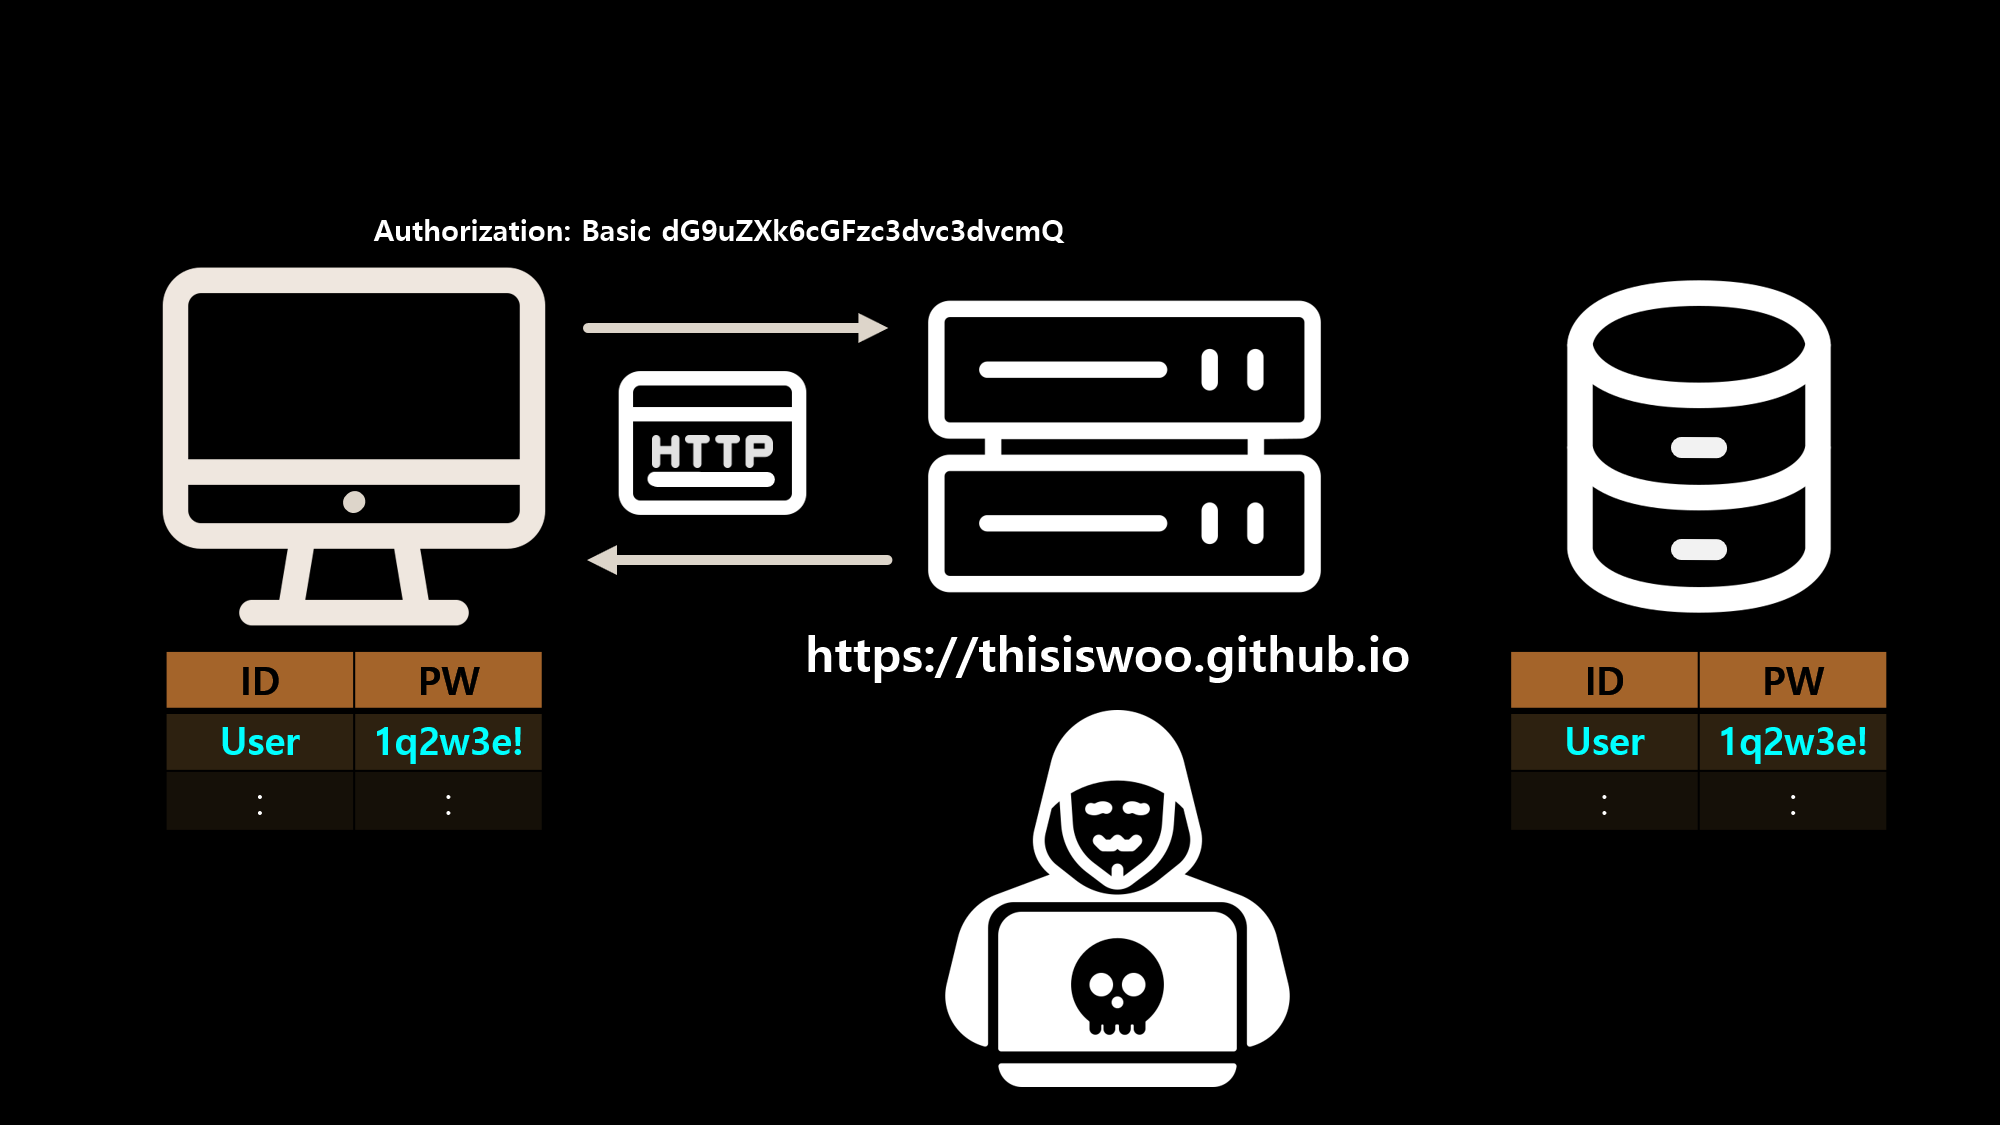
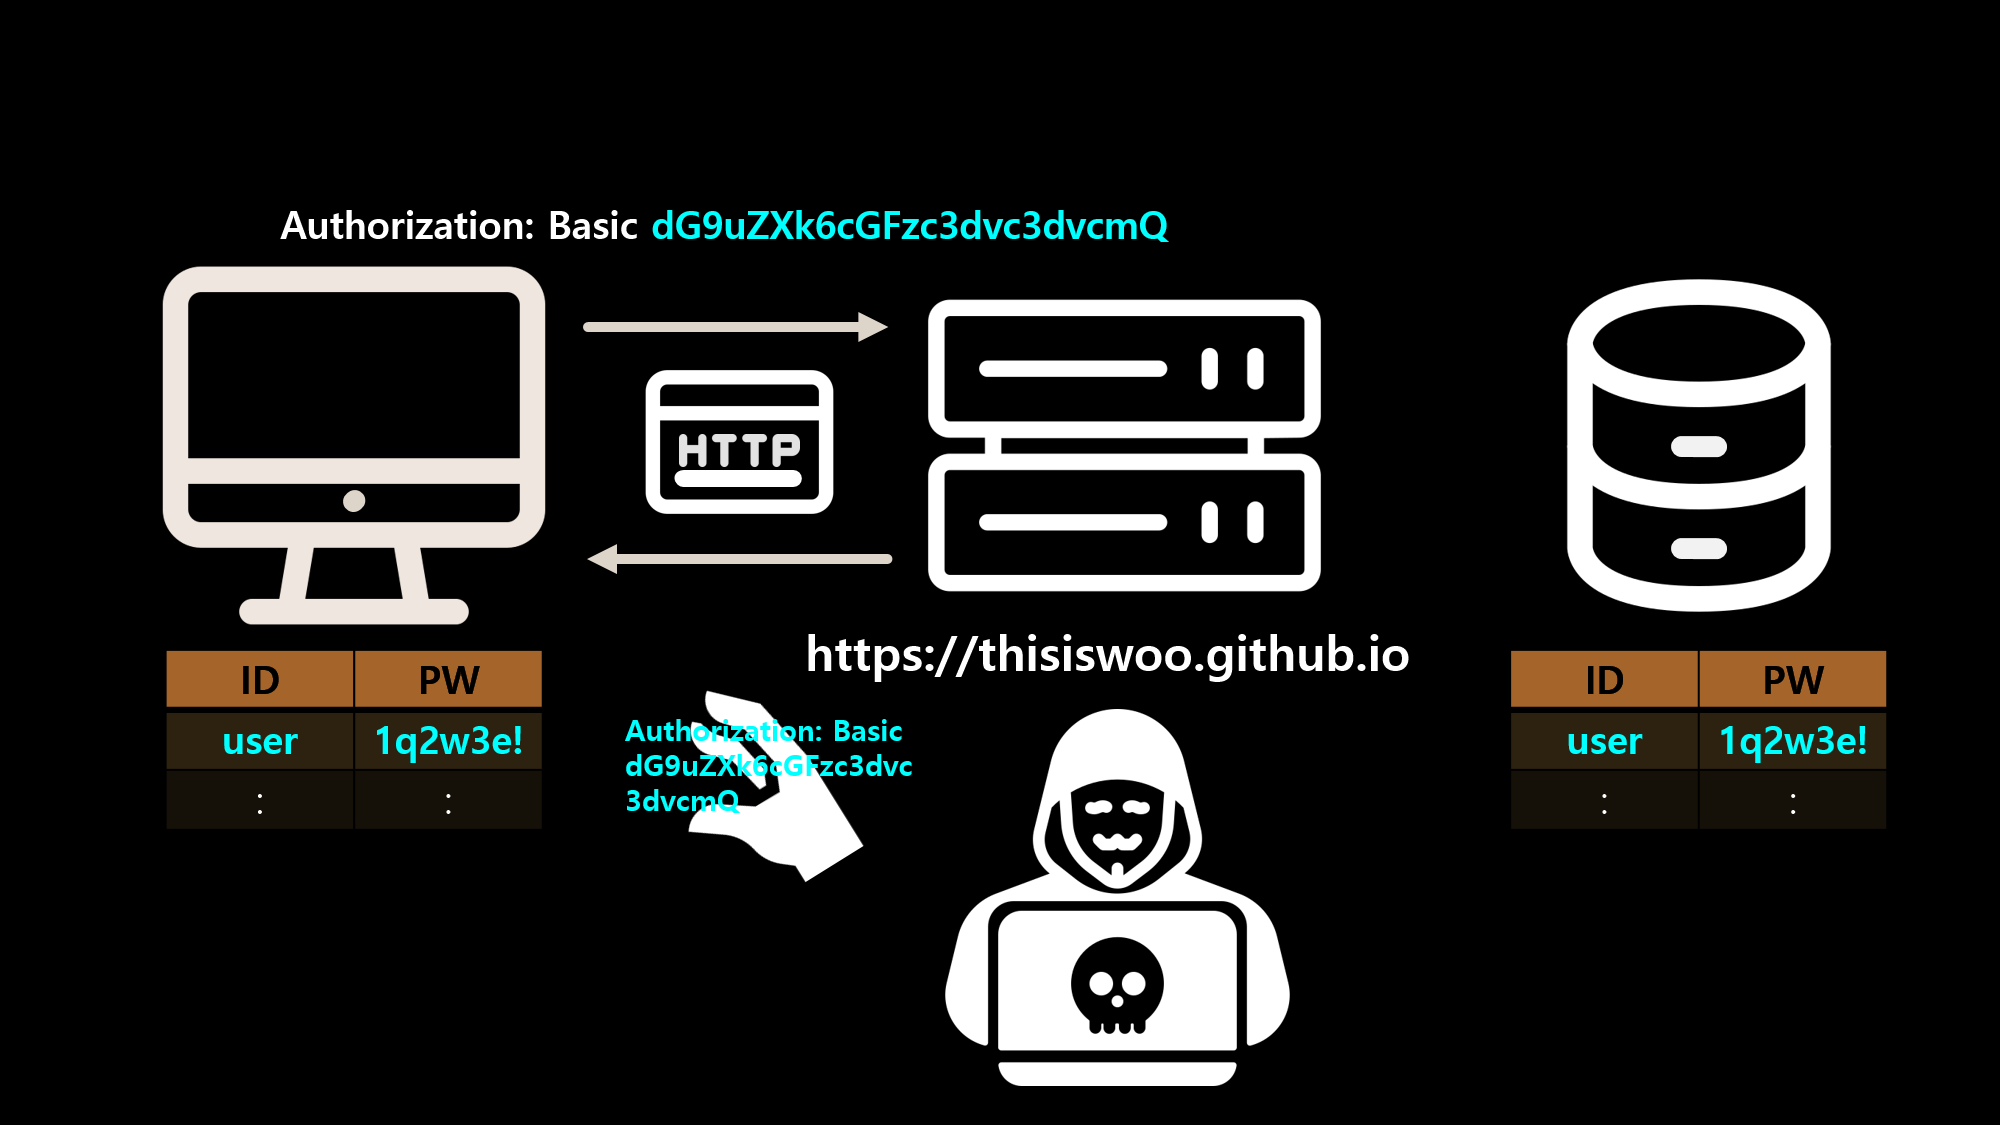
working server 2023-01-18 post

diff --git a/_posts/development/server/2023-01-18-authentication-authorization.md b/_posts/development/server/2023-01-18-authentication-authorization.md
@@ -21,20 +21,20 @@ image:
 
 ![authentication](/assets/img/development/server/2023-01-18/authentication.png){:.centered width="90%"}
 
-- **(지문 또는 얼굴 등)입증 가능한 정보**로 회사 또는 **인증이 필요한 곳에 입증하는 과정**
+- **(지문 또는 얼굴 등) 입증 가능한 정보**로 회사 또는 **인증이 필요한 곳에 입증하는 과정**
 - **식별 가능한 정보로 서비스에 등록된 유저의 신원을 입증하는 과정**
 - 인증을 통해 인증 허가된 곳(예) 회사 503호)에 출입하여 일도 하고, 회의도 하고, 다용도실에서 커피도 마시고 할 수 있다.
-- **<span style="color:#ff8080">하지만</span>**, 인증이 허가된 곳만 가능하고, 인증이 허가 되지 않은 다른 층이나 다른 사무실에 들어가지 못하게 된다.
-- **<span style="color:#ff8080">이유는</span>**, 인증 허가된 곳(예) 회사 503호)외에 다른 곳은 나의 정보로 인증 등록이 되어있지 않기 때문이다.
+- **<span style="color:#ff8080">하지만</span>**, 인증이 허가된 곳만 가능하고, 인증이 허가되지 않은 다른 층이나 다른 사무실에 들어가지 못하게 된다.
+- **<span style="color:#ff8080">이유는</span>**, 인증 허가된 곳(예) 회사 503호) 외에 다른 곳은 나의 정보로 인증 등록이 되어있지 않기 때문이다.
 
 ## 인가(Authorization)란?
 
 ![authorization](/assets/img/development/server/2023-01-18/authorization.png){:.centered width="90%"}
 > “예를 들어보자.”
 
-- 롯데타워 시그니엘에 사는 집을 방문 할 땐 롯데시그니엘 측에 인증(출입증)과 인가(시그니엘 입주민)가 된 사람들만 출입 할 수 있는 것이 **인가**이다.
-- 인증이(출입증) 되었더라도 인가(시그니엘 입주 기간)가 만료되었으면 출입이 불가능 하다. 
-- **입증(인증)**된 신원의 **권한에 대한 허가**를 나타내는 것이 **인가**이다.
+- 롯데타워 시그니엘에 사는 집을 방문할 땐 롯데 시그니엘 측에 인증(출입증)과 인가(시그니엘 입주민)가 된 사람들만 출입할 수 있는 것이 **인가**이다.
+- 인증이(출입증) 되었더라도 인가(시그니엘 입주 기간)가 만료되었으면 출입이 불가능하다. 
+- **입증(인증)** 된 신원의 **권한에 대한 허가**를 나타내는 것이 **인가**이다.
 - **<span style="color:#ff8080">즉</span>**, **인증된 사용자에 대한 자원 접근 권환 확인**
 
 # Web에서의 인증과 인가
@@ -43,56 +43,125 @@ image:
 
 > “**Web**으로 예를 들어보자. 사용자가 게시판에 글 작성하는 서비스라 생각하자.”
 
-- 사용자가 해당 사이트에 게시글을 작성하려고 하면 우선, **회원가입**과 **로그인**을 해야한다.
+- 사용자가 해당 사이트에 게시글을 작성하려고 하면 우선, **회원가입**과 **로그인**을 해야 한다.
 - 이 과정이 **인증**이다.
 - 또한 **인증**이 되었으면 게시판에 게시글을 쓸 수 있는 **권한**이 생겼다.
-- 이 과정이 **인가** 이다.
+- 이 과정이 **인가**이다.
 - 다른 사람이 게시판에 작성한 게시글 또한 읽을 수 있다.
-- **<span style="color:#ff8080">단</span>**, 다른 사람이 작성한 게시글을 **수정** 할 수 없다.
-- **<span style="color:#ff8080">왜냐하면</span>**, 다른 사람이 작성한 게시글을 수정 할 **<span style="color:#ff8080">권한(인가)</span>**이 없기 때문이다.
+- **<span style="color:#ff8080">단</span>**, 다른 사람이 작성한 게시글을 **수정**할 수 없다.
+- **<span style="color:#ff8080">왜냐하면</span>**, 다른 사람이 작성한 게시글을 수정할 **<span style="color:#ff8080">권한(인가)</span>**이 없기 때문이다.
 - **인가**가 적용된 개념이다.
 
 ## 1.Request Header 활용
 
-![web_authentication_authorization](/assets/img/development/server/2023-01-18/request_header.png){:.centered width="90%"}
+![request_header](/assets/img/development/server/2023-01-18/request_header.png){:.centered width="90%"}
 
 > “Client와 Server 사이에 **HTTP**로 **통신**하게 된다. 가상의 사이트에 회원가입이 되어있는 상태라고 가정해보자.”
 
-1. 해당 사이트 이미 회원 가입이 되어있어 DB에 ID,PW 정보가 있다.
-2. 사용자가 login URL로 접근하게 되면 login 요청을 보낼 수 있게된다.
-3. 만약, 로그인 API가 구축 되어있는 상태라고 했을때, DB에 ID, PW를 해당 URL 앞에 달아주고 요청하게 되면 login이 된다.
+1. 해당 사이트 이미 회원 가입이 되어있어 DB에 ID, PW 정보가 있다.
+2. 사용자가 login URL로 접근하게 되면 login 요청을 보낼 수 있게 된다.
+3. 만약, 로그인 API가 구축되어 있는 상태라고 했을 때, DB에 ID, PW를 해당 URL 앞에 달아주고 요청하게 되면 login이 된다.
 
 * 3번은 브라우저가 처리하게 되는데 처리 방식을 간단하게 알아보자.
 
 ![browser_encoding](/assets/img/development/server/2023-01-18/encoding.png){:.centered width="90%"}
 
-* 브라우저 요청 처리 방법은 요청 URL을 Base64로 encoder를 이용하여 encoding 하게 된다.
-1. URL의 **`user:1q2w3e!`** 부분을 parsing하여 encoding을 통해서 변환된 문자열을 같게된다.
-2. 그다음 요청 헤더에 **Authorization에 넣어서 보내주는 개념**이다.
+> “브라우저 요청 처리 방법은 요청 URL을 **Base64**로 **encoder**를 이용하여 **encoding** 하게 된다.”
+
+1. URL의 **`user:1q2w3e!`** 부분을 **`parsing`** 하여 
+2. **`encoding`**을 통해서 
+3. 변환된 **`문자열`**을 같게된다.
+4. 그다음 요청 헤더에 **Authorization에 넣어서 보내주는 개념**이다.
 
 ![request_header_login](/assets/img/development/server/2023-01-18/request_header_login.png){:.centered width="90%"}
 
-1. Client가 encoding한 요청헤더를 Server에 요청하게 된다.
-2. Server가 DB checking을 하여 DB에 값이 있으면 OK 사인을 주게 된다.
+> “**여기까지가 기본적으로 로그인한 상태의 로직**이다.”
+
+1. Client가 encoding 한 요청 헤더를 Server에 요청하게 된다.
+2. Server가 DB checking을 하고 
+3. DB에 값이 있으면 OK 사인을 주게 된다.
 
 ### Request Header만 활용할 시 문제점
 
-- 어떤 처리를 할 때 **매번 인증**을 해야하는 번거러움이 발생하게 된다.
+- 어떤 처리를 할 때(ex)등록, 수정, 삭제 등...) **매번 인증**을 해야하는 번거러움이 발생하게 된다.
 - 이걸 해결하기 위해 **Browser의 Storage**를 활용하게 된다.
 
 ## Browser 활용하기
 
-- **Browser의 Storage** 
-1. local storage
-2. cookie storage
-3. session storage
+- **Browser의 Storage** 종류
+1. Local Storage
+2. Cookie Storage
+3. Session Storage
 
-### cookie storage
+### Cookie Storage
 
-1. cookie에 사용자의 ID, PW를 넣는다.
-2. 사용자가 인증이 필요한 요청이 필요 할 때 cookie를 같이 넣어서 보내준다.
+![cookie_storage](/assets/img/development/server/2023-01-18/browser.png){:.centered width="90%"}
 
-![request_header_login](/assets/img/development/server/2023-01-18/browser.png){:.centered width="90%"}
+> “**Cookie Storage의 로직**”
 
+1. Cookie에 사용자의 ID, PW를 넣는고 인증이 필요한 요청을 할때 Cookie도 같이 Server에 보내준다.
+2. Server는 DB에 쿠키에 담은 정보를 확인 요청하게 된다.
+3. DB는 Server가 요청한 DB값이 있는지 확인 후 callback 해준다.
+4. Server는 다시 client에 callback 해준다. 그리고 사용자는 원하는 자원을 얻을 수 있다.
 
-![request_header_login](/assets/img/development/server/2023-01-18/hacking.png){:.centered width="90%"}
+- **사용자 입장에서는 굉장히 편리한 방법이다**.
+
+![hacking](/assets/img/development/server/2023-01-18/hacking.png){:.centered width="90%"}
+
+- **<span style="color:#ff8080">단</span>**, 해커의 입장에서도 굉장히 편리한 방법이다.
+1. 보안에 취약하게 노출되어있어 **사용자 정보를 쉽게 탈취**할 수 있게 된다.
+2. **Client**가 **Server**보다 **`상대적으로` 보안이 취약하다는 단점**이 있다.
+
+* 이러한 두 가지 단점을 해결하기 위해(**보안 향상**) **Session을 활용**하여 **Server**에 도움을 요청하게 된다.
+
+### Session Storage
+
+![session_storage](/assets/img/development/server/2023-01-18/session_storage.png){:.centered width="90%"}
+
+> “**Session Storage의 로직**. **`1번`** 부터 **`3번`**의 로직은 **`Cookie Storage`**와 같다.”
+
+1. Cookie에 사용자의 ID, PW를 넣는고 인증이 필요한 요청을 할때 Cookie도 같이 Server에 보내준다.
+2. Server는 DB에 쿠키에 담은 정보를 확인 요청하게 된다.
+3. DB는 Server가 요청한 DB값이 있는지 확인 후 callback 해준다.
+4. Session은 **인증된 사용자의 식별자**와, **랜덤한 문자열**로 **SESSIONID를 만들어**서
+5. **응답(Response Header)로 넘겨주고**
+6. **Client가 저장할 수 있도록 하는 것**이다.
+
+#### 장점
+
+1. Client의 보안이 낮은 데이터를 갖고 있게 되지 않게 된다. 그렇게 되면 해커가 정보를 가져가게 되더라도 크게 위험하지 않게 된다.
+2. **`SESSION`**이 **만료기간**을 설정할 수 있어 해커가 가져가게 되더라도 기한이 만료되면 **유효하지 않게 되는 장점**이 있다. 
+3. **Session의 관리**를 **Server 자체**에서 하고 있어 탈취된 Session을 Server에서 삭제하게 되면 더 이상 **Session을 사용하지 못하게** 된다.
+
+#### 단점
+
+![session_load_balancer](/assets/img/development/server/2023-01-18/session_load_balancer.png){:.centered width="90%"}
+
+> “중간에 **`Load Balancer`**가 여러대의 서버에 요청하게 된다.”
+
+1. 서비스가 잘 돼서 서버를 여러 개 두게 되면 **로드 밸런서**도 생기게 된다.
+    - **`Load Balancer`** 란? : **서버에 가해지는 트래픽을 여러 대의 서버에서 균등하게 분산시켜주는 역할**.
+2. 한 번 인증돼서 **`SESSIONID`**를 받게 되면 다음 요청 땐 **`Session`**으로만 이용해서 요청하게 된다.
+3. 그 말은 이젠 DB까지 확인하지 않고 **Server에서 Session을 확인하여 처리**할 수 있게 됐다는 뜻이다. 
+
+![session_load_balancer2](/assets/img/development/server/2023-01-18/session_load_balancer2.png){:.centered width="90%"}
+
+> “이 상황에서 user가 두 번째 인증 요청을 보내게 된다.”
+
+1. 1번째 인증을 완료하고 2번째 인증이 필요해 다시 요청을 보내게 된다.
+2. 그런데, 로드 밸런서가 SESSIONID 값이 저장되어 있는 3번째 서버가 아닌 2번째 서버에 요청을 보내게 된다.
+3. 2번째 서버에는 SESSIONID 값이 없어 오류가 발생하게 된다.
+4. 이 문제의 원인은 Server 하나하나 자체에서 Session을 관리하고 있기 때문에 문제가 발생하게 된다.
+
+#### 문제 해결 - 세션 DB
+
+![session_storage_db](/assets/img/development/server/2023-01-18/session_storage_db.png){:.centered width="90%"}
+
+> “**Session Storage(세션 DB)**를 통해 SESSIONID 요청을 **한 DB(Session Storage)**에 요청하여 해결. 그런데...”
+
+#### 또 다른 문제 발생 - 세션 DB의 문제
+
+![session_storage_problem](/assets/img/development/server/2023-01-18/session_storage_problem.png){:.centered width="90%"}
+
+- Client가 많아져서 요청이 많아지게 되면 **Session Storage에 과부하가 생겨 DB가 터지게 된다**.
+- 사용자를 위해 Cookie나 Browser의 힘을 빌려서 계속 로그인 까지 하게 해줬는데 이젠 보안상의 문제가 생겨 Server쪽에 와서 인증/인가를 해줬더니 문제가 계속 발생하게 된다.
